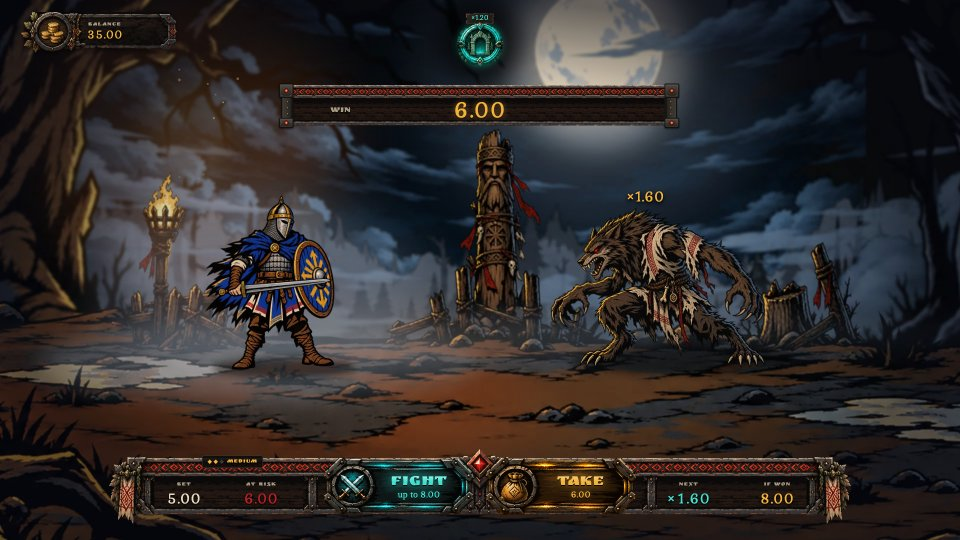
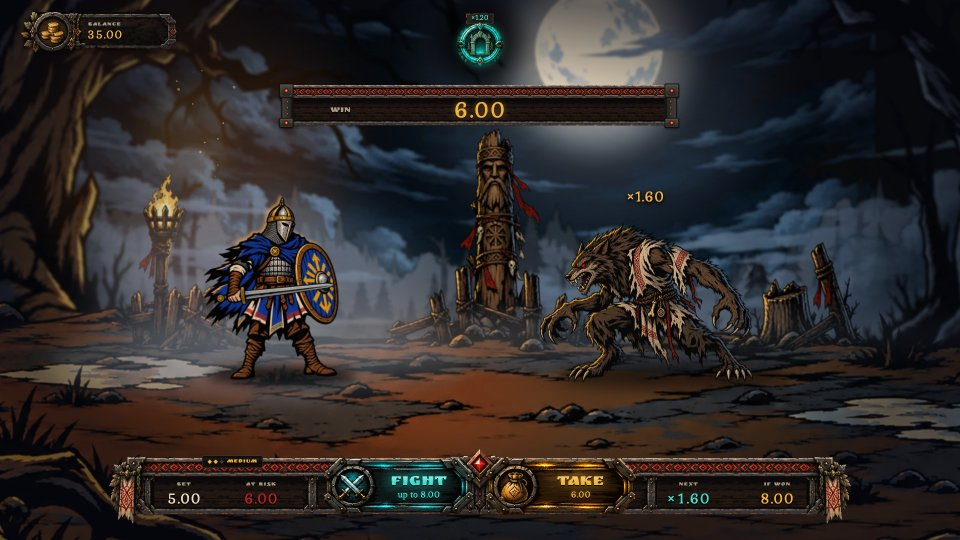
test: exchange-of-blows and no-jump checks, fight shots by pose, new Figma references

diff --git a/docs/qa/report.html b/docs/qa/report.html
@@ -12,11 +12,11 @@
   tr.ok td:first-child { color: #3fe0d0; } tr.bad td:first-child { color: #f05a5a; font-weight: bold; }
 </style></head><body>
 <h1>Casino Game · visual QA</h1>
-<p>Generated 2026-11-07T10:49:28.980Z by <code>prototype/scripts/visual-qa.mjs</code> · app at 1920×1080 (shown at 960×540) · Figma file LXMHPQWUYxLjZiYVTfbx5X.
+<p>Generated 2026-11-07T11:38:20.666Z by <code>prototype/scripts/visual-qa.mjs</code> · app at 1920×1080 (shown at 960×540) · Figma file LXMHPQWUYxLjZiYVTfbx5X.
 Animated frames (attacks, boss entrance) will differ slightly: judge layout, UI and numbers. Character art comes from Lottie, so poses differ from the static Figma frames.</p>
-<h2>Money and runtime checks: 69/69 passed</h2>
-<table><tr class="ok"><td>PASS</td><td>Debug panel: effective RTP for all 7 gates (g1 = 78.0 %)</td><td>g1 78.0% g2 67.6% g3 65.9% g4 69.6% g5 78.9% g6 86.7% g7 93.1%</td></tr><tr class="ok"><td>PASS</td><td>L0: AT RISK (dock) = WIN (counter)</td><td>0.00 vs 0.00</td></tr><tr class="ok"><td>PASS</td><td>L0: AT RISK = game value</td><td>0.00 vs 0</td></tr><tr class="ok"><td>PASS</td><td>L0: TAKE disabled before the first win</td><td></td></tr><tr class="ok"><td>PASS</td><td>L0: IF WON = FIGHT amount</td><td>up to 6.00 vs 6.00</td></tr><tr class="ok"><td>PASS</td><td>L0: AT RISK has 2 decimals</td><td>0.00</td></tr><tr class="ok"><td>PASS</td><td>L0: IF WON has 2 decimals</td><td>6.00</td></tr><tr class="ok"><td>PASS</td><td>L0: WIN has 2 decimals</td><td>0.00</td></tr><tr class="ok"><td>PASS</td><td>Balance after PLAY = start − bet</td><td>35.00</td></tr><tr class="ok"><td>PASS</td><td>L1: AT RISK (dock) = WIN (counter)</td><td>6.00 vs 6.00</td></tr><tr class="ok"><td>PASS</td><td>L1: AT RISK = game value</td><td>6.00 vs 6</td></tr><tr class="ok"><td>PASS</td><td>L1: TAKE amount = AT RISK</td><td>6.00 vs 6.00</td></tr><tr class="ok"><td>PASS</td><td>L1: IF WON = FIGHT amount</td><td>up to 8.00 vs 8.00</td></tr><tr class="ok"><td>PASS</td><td>L1: AT RISK has 2 decimals</td><td>6.00</td></tr><tr class="ok"><td>PASS</td><td>L1: IF WON has 2 decimals</td><td>8.00</td></tr><tr class="ok"><td>PASS</td><td>L1: WIN has 2 decimals</td><td>6.00</td></tr><tr class="ok"><td>PASS</td><td>L1: path shows only the reached gate</td><td>1</td></tr><tr class="ok"><td>PASS</td><td>L1: plate is text only (no plate art)</td><td>×1.60</td></tr><tr class="ok"><td>PASS</td><td>L1: plate over the vovkulak at 1193,360 (Figma 756:6778)</td><td>1193,360</td></tr><tr class="ok"><td>PASS</td><td>L2: AT RISK (dock) = WIN (counter)</td><td>8.00 vs 8.00</td></tr><tr class="ok"><td>PASS</td><td>L2: AT RISK = game value</td><td>8.00 vs 8</td></tr><tr class="ok"><td>PASS</td><td>L2: TAKE amount = AT RISK</td><td>8.00 vs 8.00</td></tr><tr class="ok"><td>PASS</td><td>L2: IF WON = FIGHT amount</td><td>up to 12.00 vs 12.00</td></tr><tr class="ok"><td>PASS</td><td>L2: AT RISK has 2 decimals</td><td>8.00</td></tr><tr class="ok"><td>PASS</td><td>L2: IF WON has 2 decimals</td><td>12.00</td></tr><tr class="ok"><td>PASS</td><td>L2: WIN has 2 decimals</td><td>8.00</td></tr><tr class="ok"><td>PASS</td><td>L3: AT RISK (dock) = WIN (counter)</td><td>12.00 vs 12.00</td></tr><tr class="ok"><td>PASS</td><td>L3: AT RISK = game value</td><td>12.00 vs 12</td></tr><tr class="ok"><td>PASS</td><td>L3: TAKE amount = AT RISK</td><td>12.00 vs 12.00</td></tr><tr class="ok"><td>PASS</td><td>L3: IF WON = FIGHT amount</td><td>up to 19.50 vs 19.50</td></tr><tr class="ok"><td>PASS</td><td>L3: AT RISK has 2 decimals</td><td>12.00</td></tr><tr class="ok"><td>PASS</td><td>L3: IF WON has 2 decimals</td><td>19.50</td></tr><tr class="ok"><td>PASS</td><td>L3: WIN has 2 decimals</td><td>12.00</td></tr><tr class="ok"><td>PASS</td><td>L4: AT RISK (dock) = WIN (counter)</td><td>19.50 vs 19.50</td></tr><tr class="ok"><td>PASS</td><td>L4: AT RISK = game value</td><td>19.50 vs 19.5</td></tr><tr class="ok"><td>PASS</td><td>L4: TAKE amount = AT RISK</td><td>19.50 vs 19.50</td></tr><tr class="ok"><td>PASS</td><td>L4: IF WON = FIGHT amount</td><td>up to 34.00 vs 34.00</td></tr><tr class="ok"><td>PASS</td><td>L4: AT RISK has 2 decimals</td><td>19.50</td></tr><tr class="ok"><td>PASS</td><td>L4: IF WON has 2 decimals</td><td>34.00</td></tr><tr class="ok"><td>PASS</td><td>L4: WIN has 2 decimals</td><td>19.50</td></tr><tr class="ok"><td>PASS</td><td>L5: AT RISK (dock) = WIN (counter)</td><td>34.00 vs 34.00</td></tr><tr class="ok"><td>PASS</td><td>L5: AT RISK = game value</td><td>34.00 vs 34</td></tr><tr class="ok"><td>PASS</td><td>L5: TAKE amount = AT RISK</td><td>34.00 vs 34.00</td></tr><tr class="ok"><td>PASS</td><td>L5: IF WON = FIGHT amount</td><td>up to 57.50 vs 57.50</td></tr><tr class="ok"><td>PASS</td><td>L5: AT RISK has 2 decimals</td><td>34.00</td></tr><tr class="ok"><td>PASS</td><td>L5: IF WON has 2 decimals</td><td>57.50</td></tr><tr class="ok"><td>PASS</td><td>L5: WIN has 2 decimals</td><td>34.00</td></tr><tr class="ok"><td>PASS</td><td>L5: gate 6 enemy is the vovkulak boss, not final</td><td>vovkulakBoss final=false</td></tr><tr class="ok"><td>PASS</td><td>L5: dock still reads IF WON on gate 6</td><td>IF WON</td></tr><tr class="ok"><td>PASS</td><td>L5: plate over the boss at 1201,327 (Figma 756:6539)</td><td>1201,327</td></tr><tr class="ok"><td>PASS</td><td>Gate 6 boss intro banner: BOSS BATTLE · ×11.50, no MAX WIN</td><td>BOSS BATTLE·×11.50</td></tr><tr class="ok"><td>PASS</td><td>Gate 6: FIGHT uses Highlight (boss)</td><td></td></tr><tr class="ok"><td>PASS</td><td>Victory banner = AT RISK growth (19.50 − 12.00)</td><td>+7.50</td></tr><tr class="ok"><td>PASS</td><td>Defeat popup = −bet</td><td></td></tr><tr class="ok"><td>PASS</td><td>Defeat: balance = before − bet</td><td>35.00</td></tr><tr class="ok"><td>PASS</td><td>Cashed out popup = TAKE amount = AT RISK</td><td>+12.00 / 12.00 / 12.00</td></tr><tr class="ok"><td>PASS</td><td>Cashed out: balance = before − bet + payout</td><td>47.00</td></tr><tr class="ok"><td>PASS</td><td>Baba Yaga intro banner shows FINAL BATTLE and the final multiplier</td><td>FINAL BATTLE·MAX WIN×19.00</td></tr><tr class="ok"><td>PASS</td><td>Baba Yaga: dock label reads MAX WIN</td><td>MAX WIN</td></tr><tr class="ok"><td>PASS</td><td>Baba Yaga: FIGHT reads "max win" = MAX WIN slot</td><td>max win 95.00 vs 95.00</td></tr><tr class="ok"><td>PASS</td><td>Baba Yaga: FIGHT uses Highlight</td><td></td></tr><tr class="ok"><td>PASS</td><td>Baba Yaga: plate shows only the final multiplier</td><td>×19.00</td></tr><tr class="ok"><td>PASS</td><td>Baba Yaga: plate over her head at 1247,306 (Figma 748:6069)</td><td>1247,306</td></tr><tr class="ok"><td>PASS</td><td>Baba Yaga: gate 7 enemy is final</td><td>babaYaga final=true</td></tr><tr class="ok"><td>PASS</td><td>MAX WIN popup = IF WON before the boss fight</td><td>+95.00 vs 95.00</td></tr><tr class="ok"><td>PASS</td><td>MAX WIN: balance unchanged until the popup shows</td><td>35</td></tr><tr class="ok"><td>PASS</td><td>MAX WIN: balance = before − bet + payout</td><td>130.00</td></tr><tr class="ok"><td>PASS</td><td>Lottie clip mount during a round (JS) < 100 ms each (roadmap long-task target)</td><td>17 mounts, worst 79 ms (enemy_05_dead.json)</td></tr><tr class="ok"><td>PASS</td><td>No page errors or console errors</td><td></td></tr></table>
-<p><code>info</code> Headless (software GL) long tasks during the perf round: 62, max 323 ms. Not a gate; see checklist for real-GPU numbers.</p>
+<h2>Money and runtime checks: 73/73 passed</h2>
+<table><tr class="ok"><td>PASS</td><td>Debug panel: effective RTP for all 7 gates (g1 = 78.0 %)</td><td>g1 78.0% g2 67.6% g3 65.9% g4 69.6% g5 78.9% g6 86.7% g7 93.1%</td></tr><tr class="ok"><td>PASS</td><td>L0: AT RISK (dock) = WIN (counter)</td><td>0.00 vs 0.00</td></tr><tr class="ok"><td>PASS</td><td>L0: AT RISK = game value</td><td>0.00 vs 0</td></tr><tr class="ok"><td>PASS</td><td>L0: TAKE disabled before the first win</td><td></td></tr><tr class="ok"><td>PASS</td><td>L0: IF WON = FIGHT amount</td><td>up to 6.00 vs 6.00</td></tr><tr class="ok"><td>PASS</td><td>L0: AT RISK has 2 decimals</td><td>0.00</td></tr><tr class="ok"><td>PASS</td><td>L0: IF WON has 2 decimals</td><td>6.00</td></tr><tr class="ok"><td>PASS</td><td>L0: WIN has 2 decimals</td><td>0.00</td></tr><tr class="ok"><td>PASS</td><td>Balance after PLAY = start − bet</td><td>35.00</td></tr><tr class="ok"><td>PASS</td><td>L1: AT RISK (dock) = WIN (counter)</td><td>6.00 vs 6.00</td></tr><tr class="ok"><td>PASS</td><td>L1: AT RISK = game value</td><td>6.00 vs 6</td></tr><tr class="ok"><td>PASS</td><td>L1: TAKE amount = AT RISK</td><td>6.00 vs 6.00</td></tr><tr class="ok"><td>PASS</td><td>L1: IF WON = FIGHT amount</td><td>up to 8.00 vs 8.00</td></tr><tr class="ok"><td>PASS</td><td>L1: AT RISK has 2 decimals</td><td>6.00</td></tr><tr class="ok"><td>PASS</td><td>L1: IF WON has 2 decimals</td><td>8.00</td></tr><tr class="ok"><td>PASS</td><td>L1: WIN has 2 decimals</td><td>6.00</td></tr><tr class="ok"><td>PASS</td><td>L1: path shows only the reached gate</td><td>1</td></tr><tr class="ok"><td>PASS</td><td>L1: plate is text only (no plate art)</td><td>×1.60</td></tr><tr class="ok"><td>PASS</td><td>L1: plate over the vovkulak at 1193,360 (Figma 756:6778)</td><td>1193,360</td></tr><tr class="ok"><td>PASS</td><td>L2: AT RISK (dock) = WIN (counter)</td><td>8.00 vs 8.00</td></tr><tr class="ok"><td>PASS</td><td>L2: AT RISK = game value</td><td>8.00 vs 8</td></tr><tr class="ok"><td>PASS</td><td>L2: TAKE amount = AT RISK</td><td>8.00 vs 8.00</td></tr><tr class="ok"><td>PASS</td><td>L2: IF WON = FIGHT amount</td><td>up to 12.00 vs 12.00</td></tr><tr class="ok"><td>PASS</td><td>L2: AT RISK has 2 decimals</td><td>8.00</td></tr><tr class="ok"><td>PASS</td><td>L2: IF WON has 2 decimals</td><td>12.00</td></tr><tr class="ok"><td>PASS</td><td>L2: WIN has 2 decimals</td><td>8.00</td></tr><tr class="ok"><td>PASS</td><td>L3: AT RISK (dock) = WIN (counter)</td><td>12.00 vs 12.00</td></tr><tr class="ok"><td>PASS</td><td>L3: AT RISK = game value</td><td>12.00 vs 12</td></tr><tr class="ok"><td>PASS</td><td>L3: TAKE amount = AT RISK</td><td>12.00 vs 12.00</td></tr><tr class="ok"><td>PASS</td><td>L3: IF WON = FIGHT amount</td><td>up to 19.50 vs 19.50</td></tr><tr class="ok"><td>PASS</td><td>L3: AT RISK has 2 decimals</td><td>12.00</td></tr><tr class="ok"><td>PASS</td><td>L3: IF WON has 2 decimals</td><td>19.50</td></tr><tr class="ok"><td>PASS</td><td>L3: WIN has 2 decimals</td><td>12.00</td></tr><tr class="ok"><td>PASS</td><td>L4: AT RISK (dock) = WIN (counter)</td><td>19.50 vs 19.50</td></tr><tr class="ok"><td>PASS</td><td>L4: AT RISK = game value</td><td>19.50 vs 19.5</td></tr><tr class="ok"><td>PASS</td><td>L4: TAKE amount = AT RISK</td><td>19.50 vs 19.50</td></tr><tr class="ok"><td>PASS</td><td>L4: IF WON = FIGHT amount</td><td>up to 34.00 vs 34.00</td></tr><tr class="ok"><td>PASS</td><td>L4: AT RISK has 2 decimals</td><td>19.50</td></tr><tr class="ok"><td>PASS</td><td>L4: IF WON has 2 decimals</td><td>34.00</td></tr><tr class="ok"><td>PASS</td><td>L4: WIN has 2 decimals</td><td>19.50</td></tr><tr class="ok"><td>PASS</td><td>L5: AT RISK (dock) = WIN (counter)</td><td>34.00 vs 34.00</td></tr><tr class="ok"><td>PASS</td><td>L5: AT RISK = game value</td><td>34.00 vs 34</td></tr><tr class="ok"><td>PASS</td><td>L5: TAKE amount = AT RISK</td><td>34.00 vs 34.00</td></tr><tr class="ok"><td>PASS</td><td>L5: IF WON = FIGHT amount</td><td>up to 57.50 vs 57.50</td></tr><tr class="ok"><td>PASS</td><td>L5: AT RISK has 2 decimals</td><td>34.00</td></tr><tr class="ok"><td>PASS</td><td>L5: IF WON has 2 decimals</td><td>57.50</td></tr><tr class="ok"><td>PASS</td><td>L5: WIN has 2 decimals</td><td>34.00</td></tr><tr class="ok"><td>PASS</td><td>L5: gate 6 enemy is the vovkulak boss, not final</td><td>vovkulakBoss final=false</td></tr><tr class="ok"><td>PASS</td><td>L5: dock still reads IF WON on gate 6</td><td>IF WON</td></tr><tr class="ok"><td>PASS</td><td>L5: plate over the boss at 1201,327 (Figma 756:6539)</td><td>1201,327</td></tr><tr class="ok"><td>PASS</td><td>Gate 6 boss intro banner: BOSS BATTLE · ×11.50, no MAX WIN</td><td>BOSS BATTLE·×11.50</td></tr><tr class="ok"><td>PASS</td><td>Gate 6: FIGHT uses Highlight (boss)</td><td></td></tr><tr class="ok"><td>PASS</td><td>Fight (win): 2–3 exchanges, final blow by the hero</td><td>2 exchanges, winner hero</td></tr><tr class="ok"><td>PASS</td><td>Fight (win): no sprite jumps — every move slides (≥150 ms), shadows on y750 ±4</td><td>5 moves, 0 jumps, y off 0.0 px</td></tr><tr class="ok"><td>PASS</td><td>Fight (lose): 2–3 exchanges, final blow by the enemy</td><td>2 exchanges, winner enemy</td></tr><tr class="ok"><td>PASS</td><td>Fight (lose): no sprite jumps — every move slides (≥150 ms), shadows on y750 ±4</td><td>5 moves, 0 jumps, y off 0.0 px</td></tr><tr class="ok"><td>PASS</td><td>Victory banner = AT RISK growth (19.50 − 12.00)</td><td>+7.50</td></tr><tr class="ok"><td>PASS</td><td>Defeat popup = −bet</td><td></td></tr><tr class="ok"><td>PASS</td><td>Defeat: balance = before − bet</td><td>35.00</td></tr><tr class="ok"><td>PASS</td><td>Cashed out popup = TAKE amount = AT RISK</td><td>+12.00 / 12.00 / 12.00</td></tr><tr class="ok"><td>PASS</td><td>Cashed out: balance = before − bet + payout</td><td>47.00</td></tr><tr class="ok"><td>PASS</td><td>Baba Yaga intro banner shows FINAL BATTLE and the final multiplier</td><td>FINAL BATTLE·MAX WIN×19.00</td></tr><tr class="ok"><td>PASS</td><td>Baba Yaga: dock label reads MAX WIN</td><td>MAX WIN</td></tr><tr class="ok"><td>PASS</td><td>Baba Yaga: FIGHT reads "max win" = MAX WIN slot</td><td>max win 95.00 vs 95.00</td></tr><tr class="ok"><td>PASS</td><td>Baba Yaga: FIGHT uses Highlight</td><td></td></tr><tr class="ok"><td>PASS</td><td>Baba Yaga: plate shows only the final multiplier</td><td>×19.00</td></tr><tr class="ok"><td>PASS</td><td>Baba Yaga: plate over her head at 1247,306 (Figma 748:6069)</td><td>1247,306</td></tr><tr class="ok"><td>PASS</td><td>Baba Yaga: gate 7 enemy is final</td><td>babaYaga final=true</td></tr><tr class="ok"><td>PASS</td><td>MAX WIN popup = IF WON before the boss fight</td><td>+95.00 vs 95.00</td></tr><tr class="ok"><td>PASS</td><td>MAX WIN: balance unchanged until the popup shows</td><td>35</td></tr><tr class="ok"><td>PASS</td><td>MAX WIN: balance = before − bet + payout</td><td>130.00</td></tr><tr class="ok"><td>PASS</td><td>Lottie clip mount during a round (JS) < 100 ms each (roadmap long-task target)</td><td>no Lottie mounted during the round (characters are sprites)</td></tr><tr class="ok"><td>PASS</td><td>No page errors or console errors</td><td></td></tr></table>
+<p><code>info</code> Headless (software GL) long tasks during the perf round: 62, max 946 ms. Not a gate; see checklist for real-GPU numbers.</p>
 
     <section>
       <h2>SETUP <code>587:5125</code></h2>
